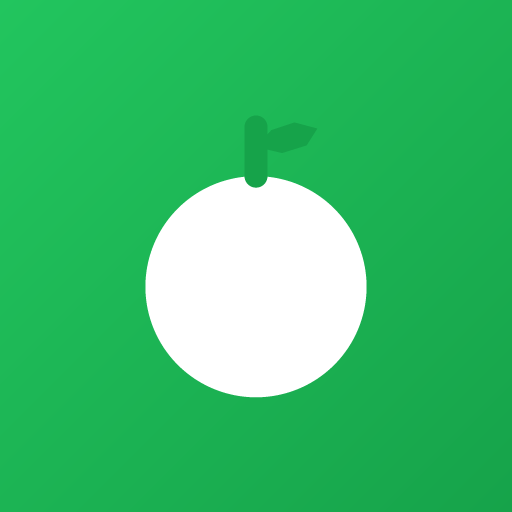
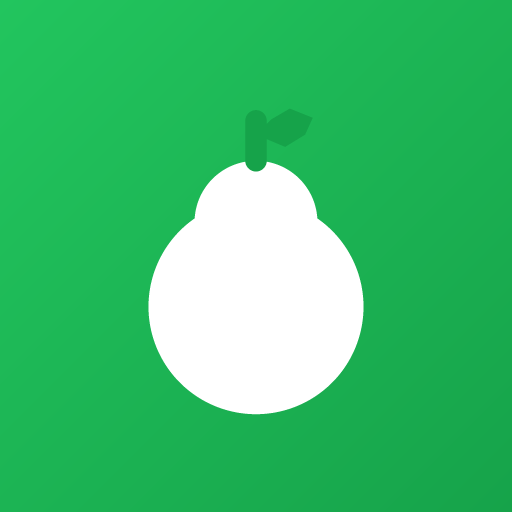
Zamenjaj ikono z jabolka na hruško
Uporabnik je izrecno želel hruško. Telo je zdaj dva zdru\u017eena kroga
(o\u017eji vrat + \u0161ir\u0161i spodnji del), pecelj in listi\u010d ostajata enaka.

diff --git a/tools/make-icons.js b/tools/make-icons.js
@@ -1,6 +1,6 @@
 /* Izriše ikone PNG iz iste risbe kot icon.svg — brez zunanjih odvisnosti.
    Zagon: node tools/make-icons.js
-   Jabolko = krog + pecelj (kapsula) + listič (mnogokotnik), glej icon.svg za isto risbo. */
+   Hruška = dva kroga (vrat + telo) + pecelj (kapsula) + listič (mnogokotnik), glej icon.svg. */
 var zlib = require('zlib'), fs = require('fs'), path = require('path');
 
 var OUT = path.join(__dirname, '..', 'icons');
@@ -11,10 +11,11 @@ var GRAD_B = [0x16, 0xa3, 0x4a];
 var BODY = [0xff, 0xff, 0xff];
 var ACCENT = [0x16, 0xa3, 0x4a];
 
-var BODY_CIRCLE = { cx: 12, cy: 14, r: 7.2 };
-var STEM = { x1: 12, y1: 6.8, x2: 12, y2: 3.6, halfW: 0.75 };
+var NECK_CIRCLE = { cx: 12, cy: 9.8, r: 4 };
+var BODY_CIRCLE = { cx: 12, cy: 15.3, r: 7 };
+var STEM = { x1: 12, y1: 5.8, x2: 12, y2: 3.2, halfW: 0.7 };
 // Približek zaobljenega lista (glej ukrivljeno pot v icon.svg).
-var LEAF_POLY = [12, 4.9, 13, 3.8, 14.5, 3.3, 16, 3.7, 15.3, 4.8, 13.7, 5.3];
+var LEAF_POLY = [12, 4.1, 13, 3.1, 14.2, 2.4, 15.7, 3, 15.2, 4.1, 13.9, 4.9];
 var ART = { cx: 12, cy: 12 };
 
 function insideRoundRect(x, y, w, h, r) {
@@ -115,9 +116,10 @@ function drawIcon(size, maskable) {
     bmp.fillGradient(function (x, y) { return insideRoundRect(x, y, n, n, 7 * unit); }, GRAD_A, GRAD_B);
   }
 
-  // Telo jabolka
+  // Telo hruške: vrat + širši spodnji del
   bmp.fill(function (px, py) {
-    return insideCircle(px, py, X(BODY_CIRCLE.cx), Y(BODY_CIRCLE.cy), BODY_CIRCLE.r * S);
+    return insideCircle(px, py, X(NECK_CIRCLE.cx), Y(NECK_CIRCLE.cy), NECK_CIRCLE.r * S)
+        || insideCircle(px, py, X(BODY_CIRCLE.cx), Y(BODY_CIRCLE.cy), BODY_CIRCLE.r * S);
   }, BODY);
 
   // Pecelj

diff --git a/index.html b/index.html
@@ -20,9 +20,10 @@
     <div class="brand">
       <span class="brand-icon" aria-hidden="true">
         <svg viewBox="0 0 24 24" fill="currentColor" stroke="currentColor">
-          <circle cx="12" cy="14" r="7.2"/>
-          <path d="M12 6.8 L12 3.6" stroke-width="1.5" stroke-linecap="round"/>
-          <path d="M12 4.9 Q14.4 3.1 16 3.7 Q15 6.2 12 4.9 Z" stroke="none"/>
+          <circle cx="12" cy="9.8" r="4"/>
+          <circle cx="12" cy="15.3" r="7"/>
+          <path d="M12 5.8 L12 3.2" stroke-width="1.4" stroke-linecap="round"/>
+          <path d="M12 4.1 Q14.2 2.4 15.7 3 Q14.8 5.3 12 4.1 Z" stroke="none"/>
         </svg>
       </span>
       <div class="brand-text">

diff --git a/sw.js b/sw.js
@@ -1,7 +1,7 @@
 /* Predpomnilnik lupine aplikacije, da deluje tudi brez povezave.
    Slike obrokov so v IndexedDB in delujejo brez neta neodvisno od tega predpomnilnika.
    Ob spremembi datotek povečaj VERSION. */
-var VERSION = 'zdrav-v2';
+var VERSION = 'zdrav-v3';
 var SHELL = [
   './', './index.html', './style.css', './icon.svg', './manifest.json',
   './js/db.js', './js/app.js',
